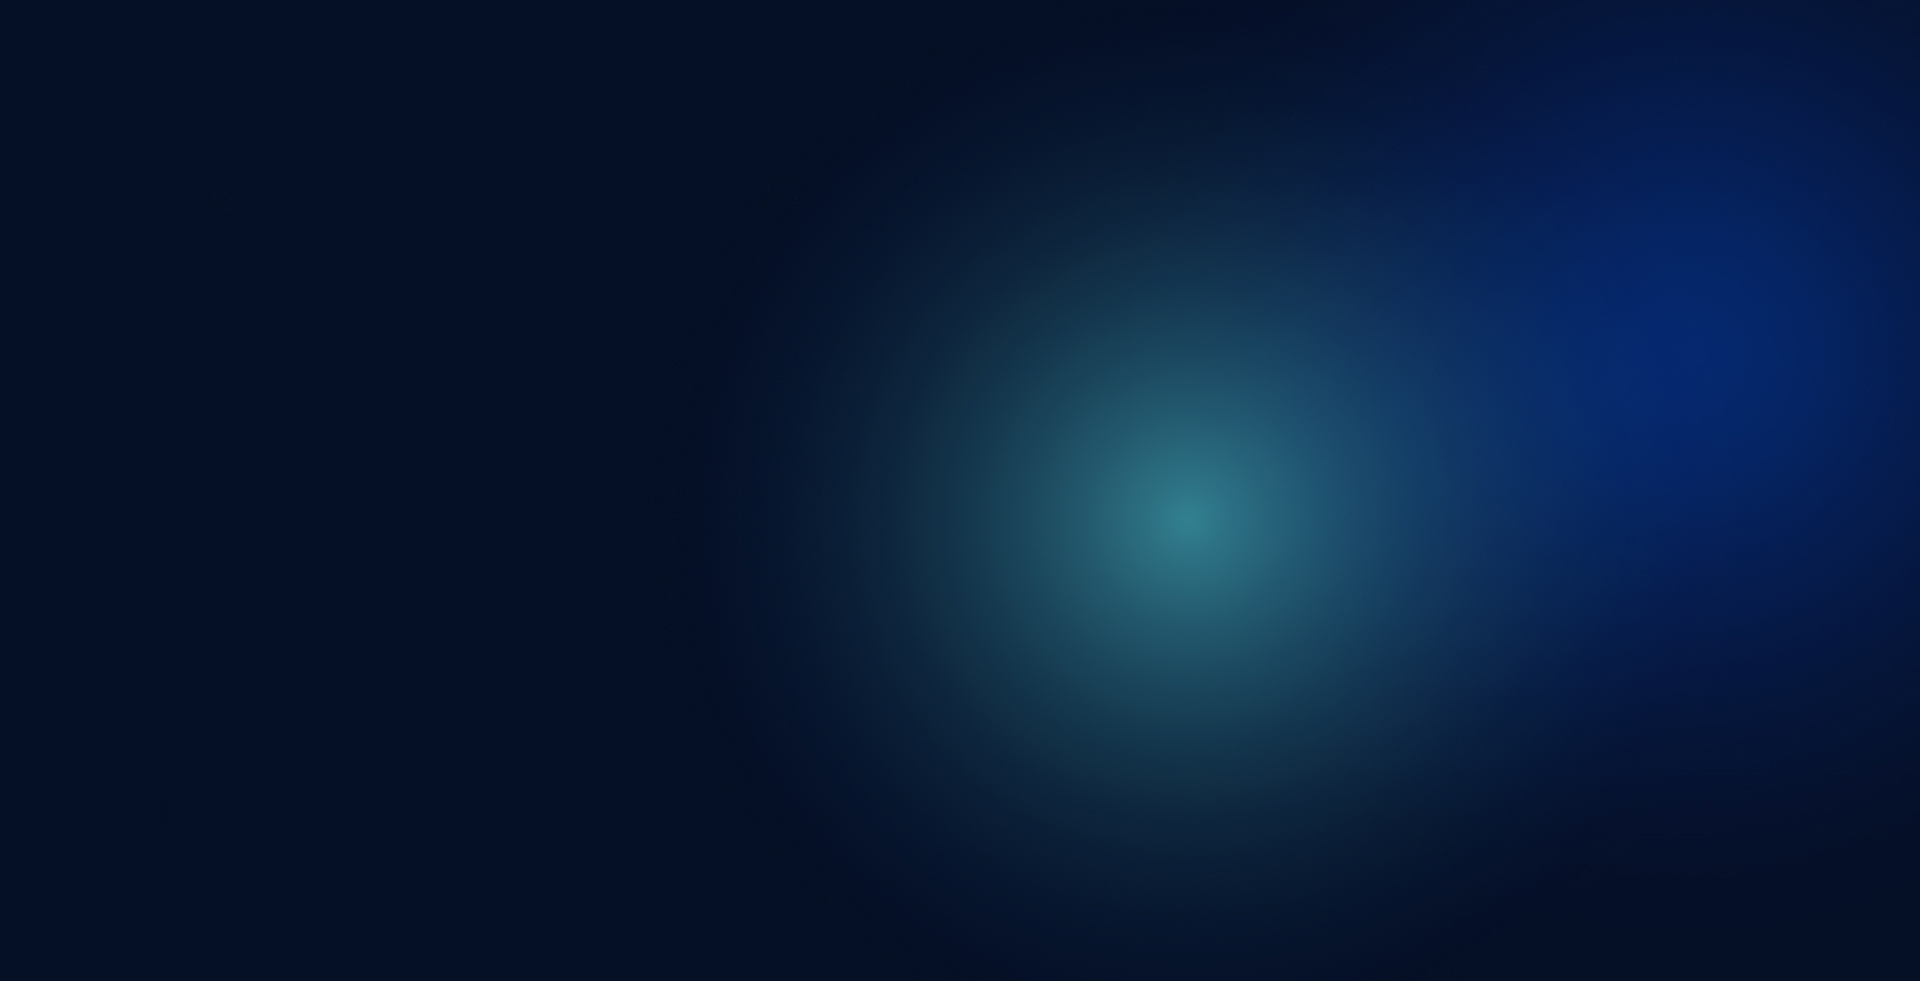
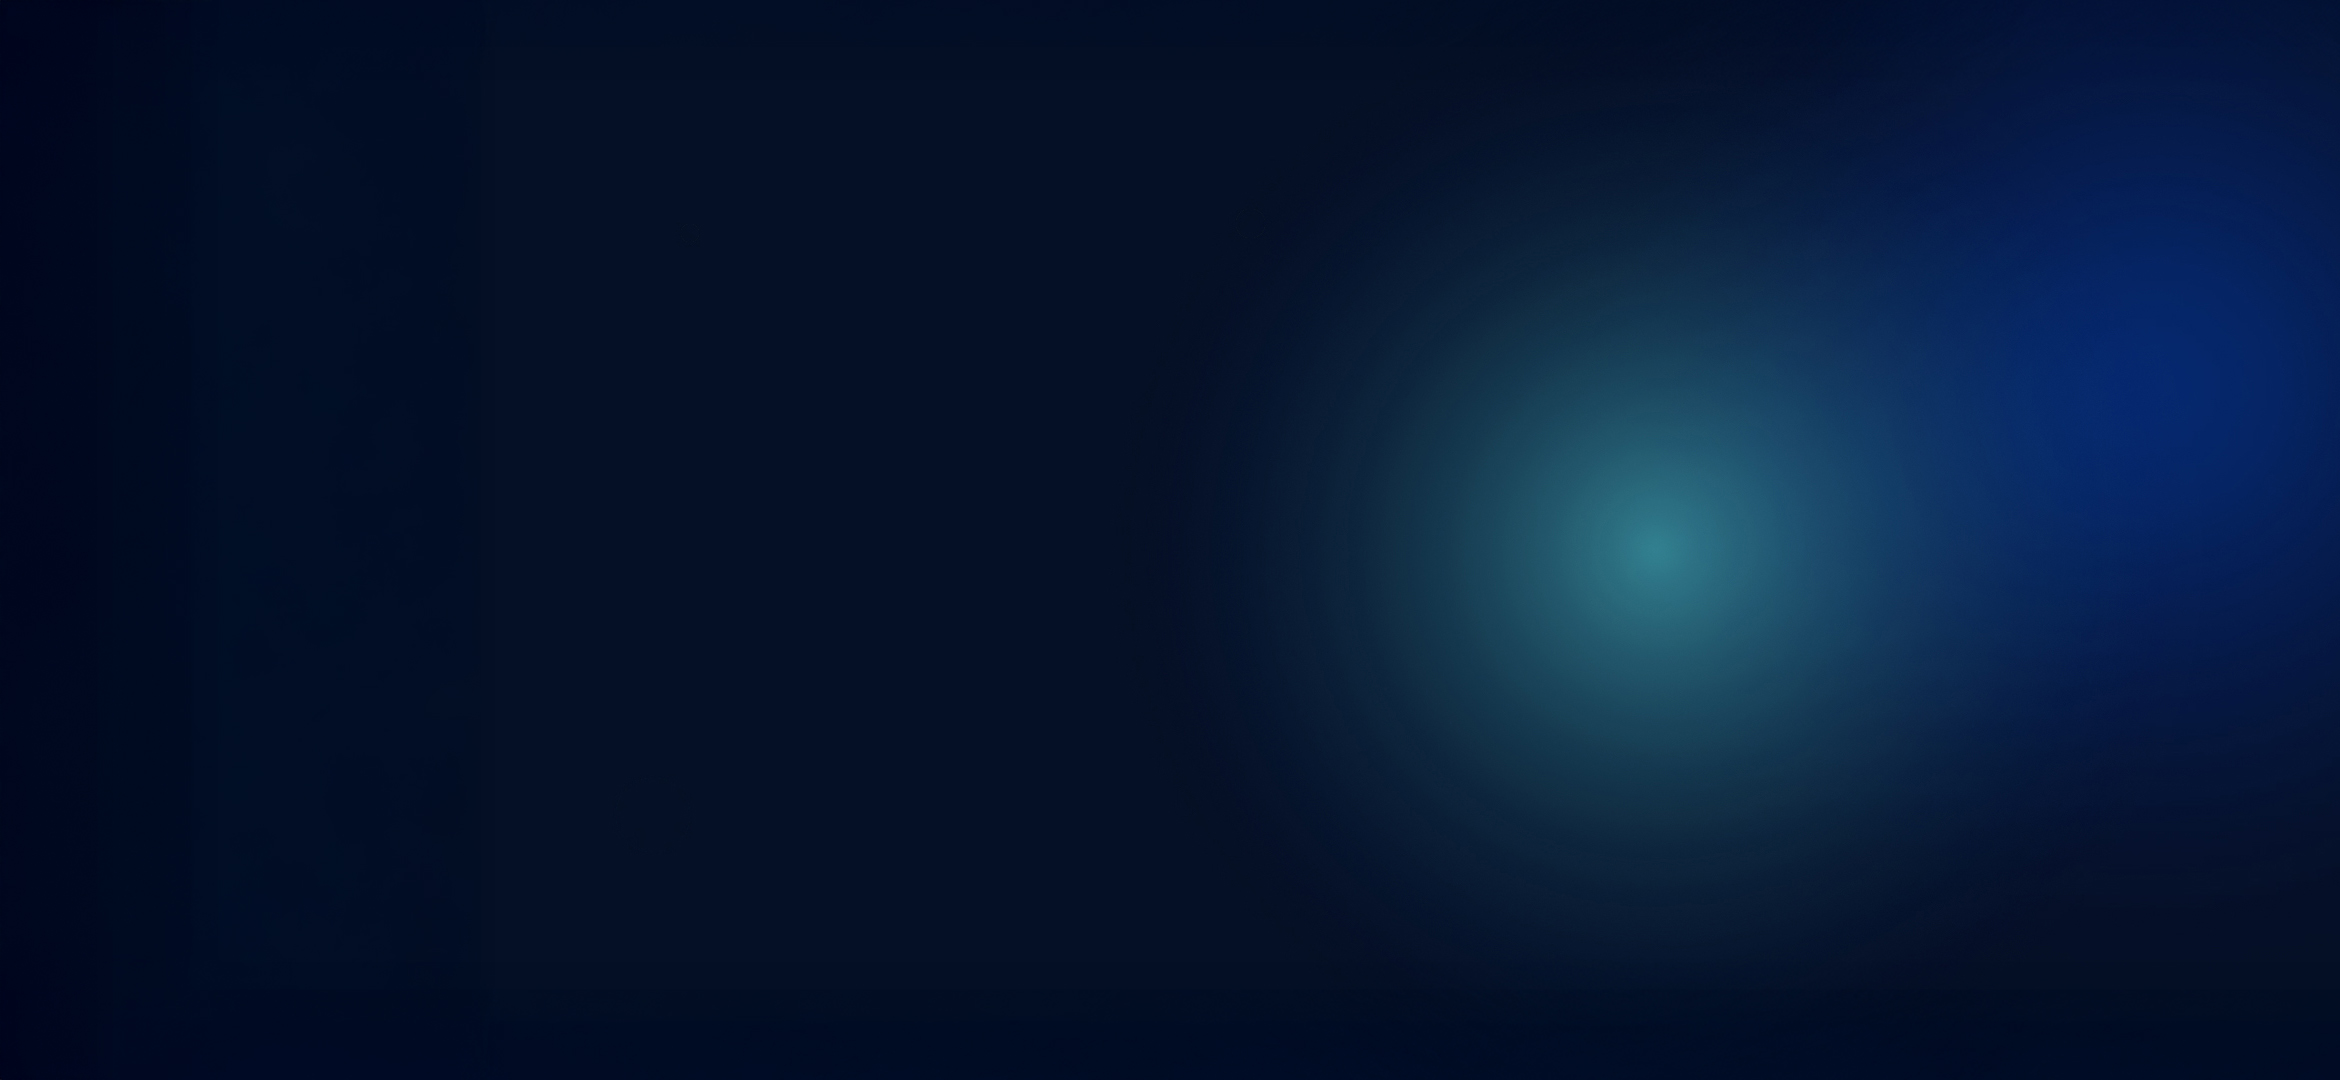
style: hero section and bb added

Changed region(s): [[0.4688, 0.2752, 0.6562, 0.7951], [0.6875, 0.3976, 0.7812, 0.6422]]

diff --git a/index.html b/index.html
@@ -115,10 +115,11 @@
     <meta name="keywords" content="himanshi ahir, best web developer, best web designer, website developer, website in less budget, website maker, website designer in india, ui ux designer, responsive web design, ecommerce website, website optimization, custom web solutions, lms website, mobile-friendly website">
 
     <meta name="viewport" content="width=device-width, initial-scale=1.0">
-    <!-- <link rel="stylesheet" href="./assets/css/fonts.css">
-    <link rel="stylesheet" href="./assets/css/style.css"> -->
+    <link rel="stylesheet" href="./assets/css/fonts.css">
+    <link rel="stylesheet" href="./assets/css/style.css">
     
-    <link rel="stylesheet" href="./assets/css/style.min.css"> <!-- Production minified CSS -->
+    <!-- <link rel="stylesheet" href="./assets/css/style.min.css">  -->
+    <!-- Production minified CSS -->
 </head>  
 <body>
     <aside class="navigation-aside" title="Navigation Aside">
@@ -148,17 +149,16 @@
                 <img src="./assets/media/ellips-3.webp" class="circle-three" alt="animation ball" loading="lazy" draggable="false">
             </div>
             <div class="container hero-row position-relative">
-                <div class="col-lg-50">
-                    <h1 class="hero-title" title="himanshi's tagline">Hey, I am <br>
-                        Himanshi Ahir <br>
-                        <span class="job-title">Web Developer</span>
+                <div class="hero-content-wrap">
+                    <h1 class="hero-title" title="himanshi's tagline">Engineering Web that excel in
+                        <span class="job-title">Conversion</span>
                     </h1>
                     <p class="hero-paragraph" title="himanshi's intro paragraph">
                         I believe in performance and branding which helps to grow business online. A website can achieve massive success with the right optimization and good SEOs.
                     </p>
                     <a href="http://m.me/himanshiahir.in" class="button">contact me <i class="hai-arrow-right"></i></a>
                 </div>
-                <div class="col-lg-50">
+                <div class="hero-img-wrap">
                     <img src="./assets/media/himanshi-ahir.webp" class="hero-img" alt="himanshi ahir" loading="lazy" draggable="false">
                 </div>
             </div>
@@ -359,7 +359,7 @@
                                             <img src="./assets/media/Devi_Ahilya_Vishwavidyalaya_Logo.png" loading="lazy" alt="devi ahilya vishwavidyalaya logo"> DAVV University Indore
                                         </p>
                                     </div>
-                                    <p class="course-timespan">2021 - 2023</p>
+                                    <p class="course-timespan">2021 - 2024</p>
                                 </li>
                                 <li class="academic-list-item">
                                     <div>
@@ -382,10 +382,10 @@
                                 <li class="resume-experience-item" data-current-job="true">
                                     <div>
                                         <h3 class="resume-job-role" title="job role">
-                                            Web Designer
+                                            Web Developer (Webflow)
                                         </h3>
                                         <p class="resume-job-company" title="company">
-                                            <i class="hai-codiatic"></i> Codiatic Technologies
+                                            <i class="hai-bb-agency"></i> Beetle Beetle
                                         </p>
                                     </div>
                                     <p class="job-timespan">Current</p>

diff --git a/assets/css/style.css b/assets/css/style.css
@@ -104,7 +104,7 @@ ul {
 }
 
 .hero {
-	background: url(../media/himanshi-ahir-hero-bg.webp) no-repeat center bottom/cover;
+	background: url(../media/himanshi-ahir-hero-bg.jpg) no-repeat center bottom/cover;
 	min-height: calc(100vh - 64px);
 	display: flex;
 	align-items: center;
@@ -423,7 +423,10 @@ ul {
 	font-size: 1.3rem;
 	line-height: 2rem;
 }
-
+.hero-img-wrap{
+	width: 80%;
+	max-width: 480px;
+}
 .hero-img {
 	max-width: 100%;
 }
@@ -747,8 +750,16 @@ ul {
 	color: #93da51;
 }
 
-.hai-developer-bazaar,.hai-codiatic {
+.hai-developer-bazaar{
 	color: rgb(var(--color-white));
+}
+
+.hai-bb-agency{
+	color: #db3932;
+	position: relative;
+	border-radius: 18px;
+	background: radial-gradient(circle, #fff 60%, transparent 60%);
+
 }
 
 .job-timespan,
@@ -1135,10 +1146,6 @@ ul {
 		max-width: 80rem;
 		padding-left: 2rem;
 		padding-right: 2rem;
-	}
-
-	.col-lg-50 {
-		width: 50%;
 	}
 
 	.works-grid {

diff --git a/assets/css/fonts.css b/assets/css/fonts.css
@@ -84,6 +84,9 @@
 .hai-vscode:before {
   content: "\e92a";
 }
+.hai-bb-agency:before {
+  content: "\e930";
+}
 .hai-accessiblity:before {
   content: "\e914";
 }
